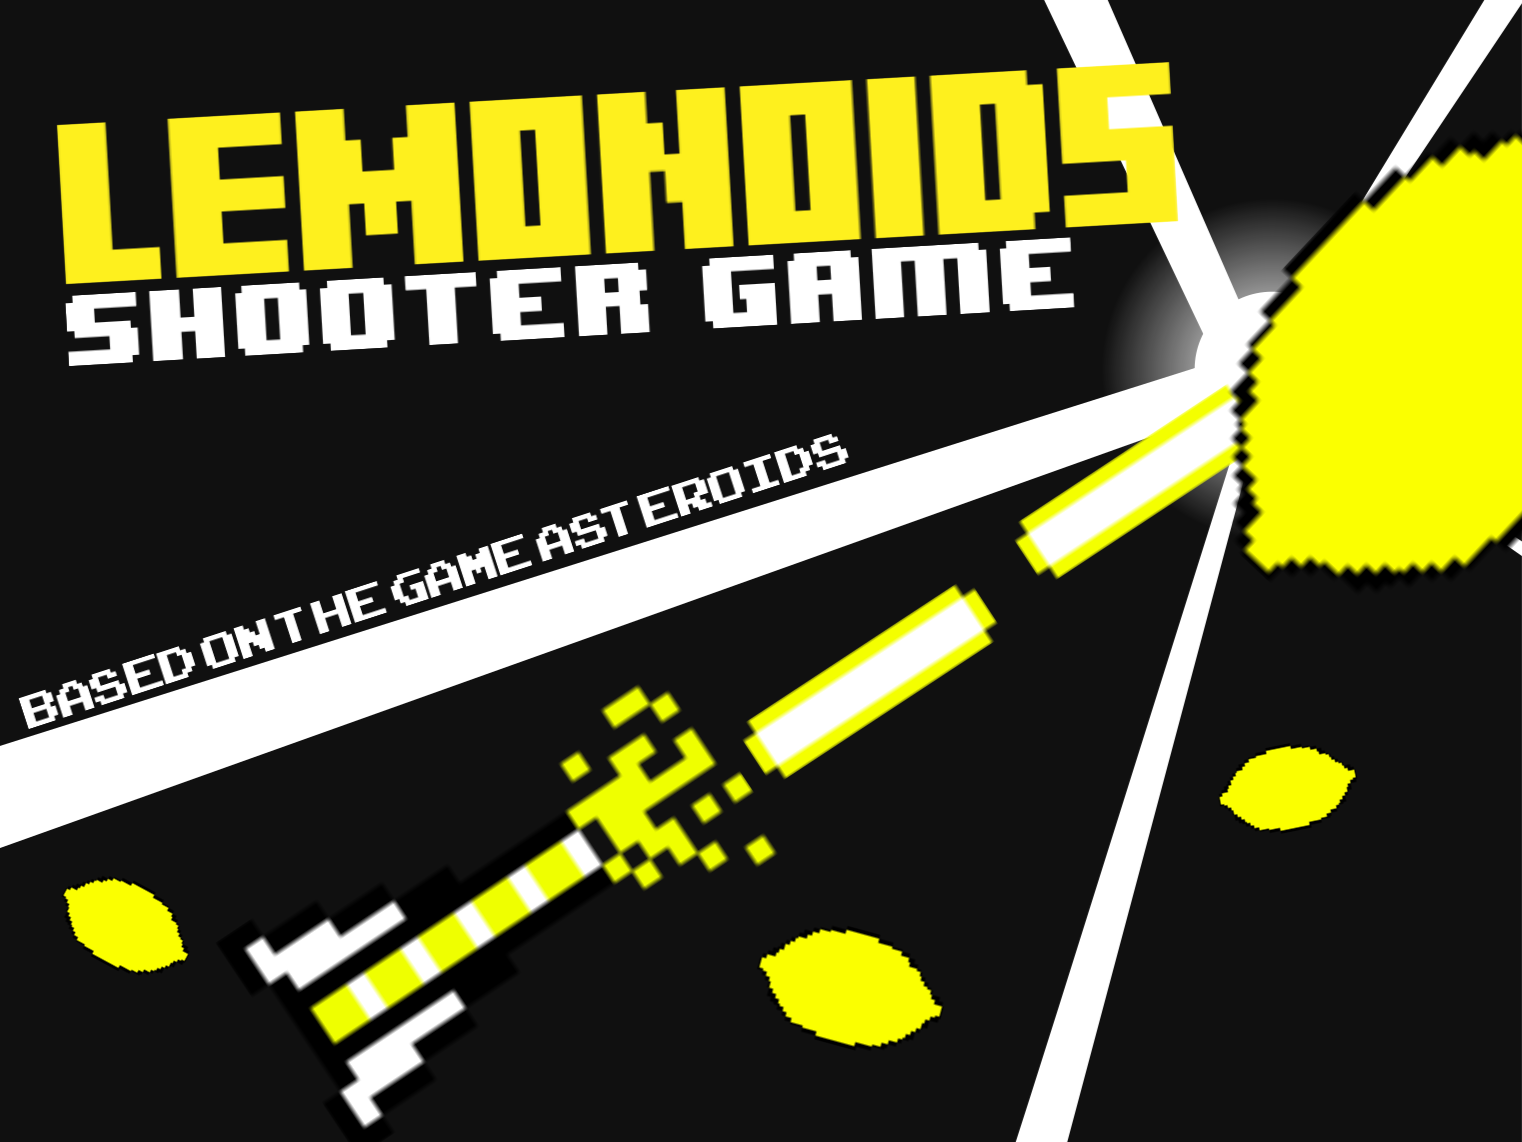
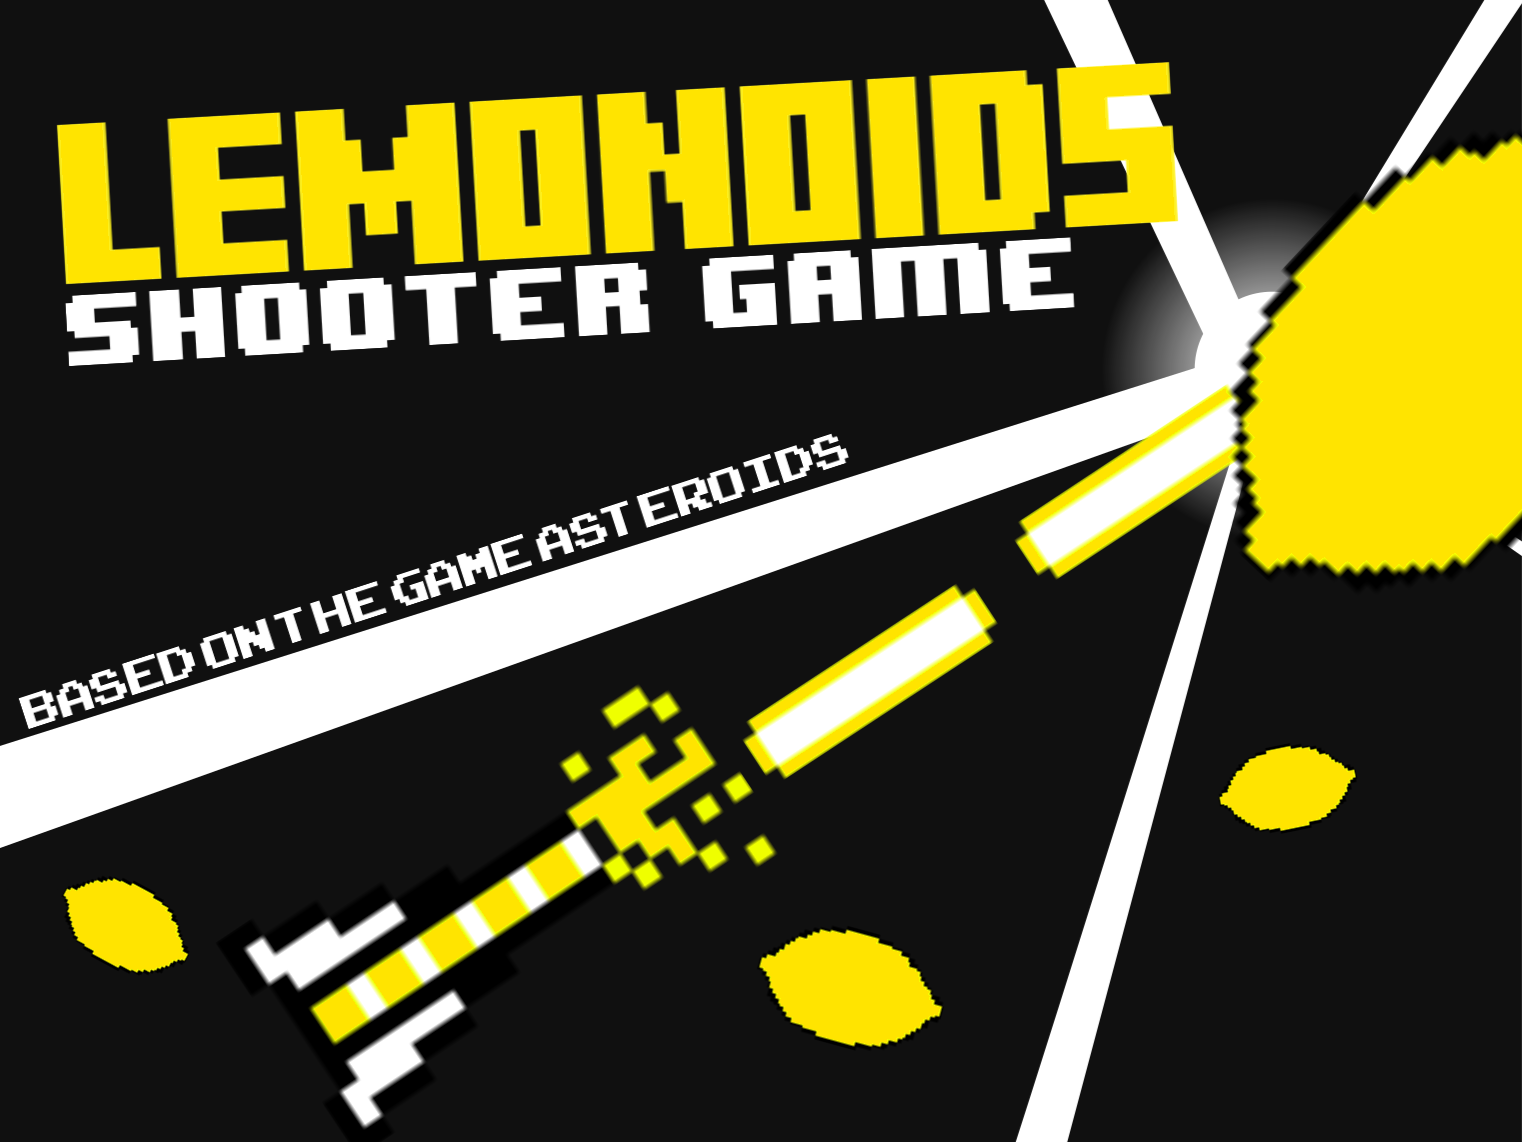
Update main.py, Edit Images
- Updated the yellow colour of the player, laser and lemonoids to be a nicer shade of yellow
- Changed the scale of the base images to be the same (1px of drawing = 1px of image)
- Updated the scale system to accommodate the previous change
- Finished the small particle effect mechanics for when a lemonoid is destroyed

diff --git a/main.py b/main.py
@@ -1,9 +1,8 @@
 import pygame
 
-from sys import exit
 from time import time
 from math import atan2, cos, sin, degrees, radians, pi
-from random import randint, uniform
+from random import randint, uniform, choice
 
 from constants import *
 
@@ -97,7 +96,7 @@ class Game:
 		self.shake_offset = (0, 0)
 		self.shake_offsets.clear()
 		self.lemonoids.empty()
-		for i in range(3): self.lemonoids.add(Lemonoid(angle = randint(0, 360), max_health = 10, move_speed = 75, size = 1, game = self))
+		for i in range(3): self.lemonoids.add(Lemonoid(angle = randint(0, 360), move_speed = 75, size = 1, game = self))
 		pygame.time.set_timer(self.LEMONOID_TIMER, self.lemonoid_frequency)
 		self.explosions.empty()
 
@@ -216,7 +215,7 @@ class Player(pygame.sprite.Sprite):
 		self.game = game
 
 		# Constant Vars
-		self.SIZE = 0.5
+		self.SIZE = 2
 		self.ACCELERATION_VEL = 0.999
 		self.SPEED = 3
 		self.FIRE_RATE = 0
@@ -404,12 +403,15 @@ class Player(pygame.sprite.Sprite):
 			
 			if SFX: self.shoot_sfx.play()
 			self.lasers_fired.add(
+
 				Laser(
 					start_pos = self.pos, 
-		  			angle = self.angle + uniform(-(self.ACCURACIES[self.ship_index] / 2), self.ACCURACIES[self.ship_index] / 2), 
+		  			angle = self.angle + uniform(-(self.ACCURACIES[self.ship_index] / 2), self.ACCURACIES[self.ship_index] / 2),
+					size = self.SIZE,
 					laser_index = self.ship_index, 
 					game = self.game
 				)
+
 			)
 
 		self.fire_buffer -= round(100 * dt)
@@ -490,18 +492,19 @@ class Cursor(pygame.sprite.Sprite):
 
 class Laser(pygame.sprite.Sprite):
 
-	def __init__(self, start_pos: tuple, angle: int | float, laser_index: int, game: Game) -> None:
+	def __init__(self, start_pos: tuple, angle: int | float, size: int | float, laser_index: int, game: Game) -> None:
 
 		super().__init__()
 		
 		self.laser_index = laser_index
 		self.game = game
 		self.ANGLE = angle
-		self.SPEEDS = {0: 1000}
+		self.SIZE = size
+		self.SPEEDS = {0: 1000} # laser index: speed
 		self.collided = 0
 
-		self.image = pygame.transform.rotate(pygame.transform.scale_by(pygame.image.load(f'Images/Laser/Laser{self.laser_index}.png'), 0.5), self.ANGLE).convert_alpha()
-		self.hit_image = pygame.transform.rotate(pygame.transform.scale_by(pygame.image.load(f'Images/Laser/Hit.png'), 0.5), self.ANGLE).convert_alpha()
+		self.image = pygame.transform.rotate(pygame.transform.scale_by(pygame.image.load(f'Images/Laser/Laser{self.laser_index}.png'), self.SIZE), self.ANGLE).convert_alpha()
+		self.hit_image = pygame.transform.rotate(pygame.transform.scale_by(pygame.image.load(f'Images/Laser/Hit.png'), self.SIZE), self.ANGLE).convert_alpha()
 		self.mask = pygame.mask.from_surface(self.image)
 
 		self.rect = self.image.get_rect(center = start_pos)
@@ -561,8 +564,8 @@ class Lemonoid(pygame.sprite.Sprite):
 		self.size = size
 
 		# Images
-		self.og_image = pygame.transform.scale_by(pygame.transform.rotate(pygame.image.load('Images/Lemonoid/Lemonoid.png'), self.angle), self.SIZES[self.size] * 0.75).convert_alpha()
-		self.particle_images = [pygame.transform.scale_by(pygame.image.load(f'Images/Lemonoid/Break/Particle{i}.png'), 0.5).convert_alpha() for i in range(2)]
+		self.og_image = pygame.transform.rotate(pygame.transform.scale_by(pygame.image.load('Images/Lemonoid/Lemonoid.png'), self.SIZES[self.size] * 10), self.angle).convert_alpha()
+		self.particle_images = [pygame.image.load(f'Images/Lemonoid/Break/Particle{i}.png').convert_alpha() for i in range(2)]
 		self.image = self.og_image
 
 		# Rects, Vectors, Masks
@@ -640,18 +643,6 @@ class Lemonoid(pygame.sprite.Sprite):
 
 	def death_animation(self, size: int | float) -> None:
 
-		# Explosion
-		self.game.explosions.add(
-
-			Explosion(
-				type = 0 if size == 1 else 1, 
-			 	pos = self.pos, 
-				frames = self.game.explosion_frames, 
-				game = self.game
-			)
-
-		)
-
 		# Shake
 		if size == 1:
 
@@ -669,36 +660,49 @@ class Lemonoid(pygame.sprite.Sprite):
 
 			self.game.shake_offsets.append((0, 0))
 
+		# Explosion
+		self.game.explosions.add(
+
+			Explosion(
+				type = 0 if size == 1 else 1, 
+			 	pos = self.pos, 
+				frames = self.game.explosion_frames, 
+				game = self.game
+			)
+
+		)
+
 		# Particles
-		for i in range(int(50 / size)):
+		for i in range(int(25 / size)):
 			
-				self.game.particles.add(
+			self.game.particles.add(
 
-					Particle(
-						start_pos = self.pos,
-						angle = 360 / (50 / size) * i,
-						image = self.particle_images[i % len(self.particle_images)], 
-						move_speed = randint(100, 500) / size,
-						rotation_speed = randint(100, 1000) * size,
-						fade_speed = 500 * size,
-						game = self.game
-					)
+				Particle(
+					start_pos = self.pos,
+					angle = (360 / int(25 / size)) * i,
+					image = choice(self.particle_images), 
+					move_speed = randint(100, 500) / size,
+					rotation_speed = randint(100, 500) * size,
+					fade_speed = 100 * size,
+					game = self.game
+				)
 
-				)	
+			)	
 
 	def hit(self, relative_collision_pos: tuple | pygame.math.Vector2) -> None:
 
 		self.health -= self.DAMAGE
 
-		if self.health > 0:
+		# SFX
+		if SFX: self.hit_sfx.play()
+		self.game.add_score(5)
+		
+		# Flash Effect
+		array = pygame.PixelArray(self.image)
+		array.replace((255, 228, 0), (255, 255, 255))
+		array.close()
 
-			if SFX: self.hit_sfx.play()
-			self.game.add_score(5)
-			
-			# Flash Effect
-			array = pygame.PixelArray(self.image)
-			array.replace((247, 255, 0), (255, 255, 255))
-			array.close()
+		if self.health > 0:
 
 			# Position of Collision with Laser
 			screen_collision_pos = (self.rect.topleft[0] + relative_collision_pos[0], self.rect.topleft[1] + relative_collision_pos[1])
@@ -730,12 +734,6 @@ class Lemonoid(pygame.sprite.Sprite):
 
 		if self.size != 4:
 
-			# SFX
-			if SFX: 
-				
-				if self.size == 1: self.explosion_sfx.play()
-				else: self.explosion_sfx_2.play()
-
 			# New Lemonoids
 			for i in range(3):
 
@@ -755,7 +753,12 @@ class Lemonoid(pygame.sprite.Sprite):
 			self.health_bar.sprite.segment.empty()
 			self.health_bar.empty()
 
-		# Score, Animation
+		# Score, Animation, SFX
+		if SFX: 
+			
+			if self.size == 1: self.explosion_sfx.play()
+			else: self.explosion_sfx_2.play()
+
 		self.game.add_score(self.SCORES[self.size])
 		self.death_animation(self.size)
 		self.kill()

diff --git a/constants.py b/constants.py
@@ -16,5 +16,5 @@ YELLOW = '#ffea00'
 RED = '#ff2600'
 
 # Audio
-SFX = False
+SFX = True
 MUSIC = False
